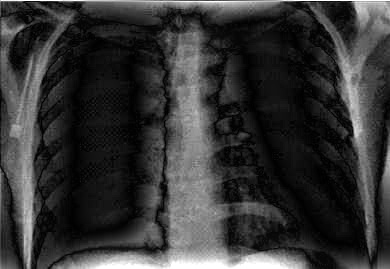
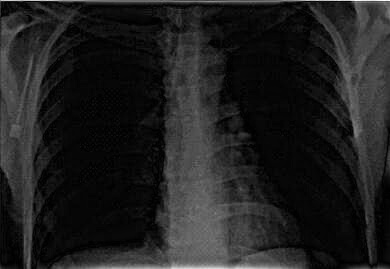
参数微调

diff --git a/Project2/9_medical.py b/Project2/9_medical.py
@@ -3,8 +3,6 @@ import numpy as np
 
 
 def ButterworthHighPass(img):
-	img = cv2.imread('input/9_input.jpg')
-	img = cv2.cvtColor(img, cv2.COLOR_BGR2GRAY)
 	# 傅立叶变换
 	f = np.fft.fft2(img)
 	# 频移至中心
@@ -30,14 +28,12 @@ def ButterworthHighPass(img):
 
 def HighFrequencyEmphasis(img):
 	# 和 Butterworth 相比多了一步
-	img = cv2.imread('input/9_input.jpg')
-	img = cv2.cvtColor(img, cv2.COLOR_BGR2GRAY)
 	# 傅立叶变换
 	f = np.fft.fft2(img)
 	# 频移至中心
 	img = np.fft.fftshift(f)
 	# 指定截止频率为宽度的 1.5 %
-	D0 = img.shape[0] * 0.015
+	D0 = img.shape[0] * 0.05
 	# 指定巴特沃斯滤波器的阶数
 	frac = 2
 	# 指定中点 (M, N)
@@ -48,7 +44,7 @@ def HighFrequencyEmphasis(img):
 			D = np.sqrt(np.square(u - M) + np.square(v - N))
 			H = 1 / (1 + np.power((D0 / D), 2 * frac))
 			# High Frequency Emphasis
-			H = 0.5 + 2.5 * H
+			H = 0.5 + 1.5 * H
 			img[u][v] = img[u][v] * H
 	cv2.imwrite('output/9_A_Processing.jpg', 20 * np.log(np.abs(img)), [int(cv2.IMWRITE_JPEG_QUALITY), 95])
 	# 逆傅立叶变换
@@ -68,6 +64,6 @@ B = ButterworthHighPass(img)
 cv2.imwrite('output/9_B.jpg', B, [int(cv2.IMWRITE_JPEG_QUALITY), 95])
 C = HighFrequencyEmphasis(img)
 cv2.imwrite('output/9_C.jpg', C, [int(cv2.IMWRITE_JPEG_QUALITY), 95])
-D = cv2.equalizeHist(img)
+D = equalizeHistogram(C)
 cv2.imwrite('output/9_D.jpg', D, [int(cv2.IMWRITE_JPEG_QUALITY), 95])
 
